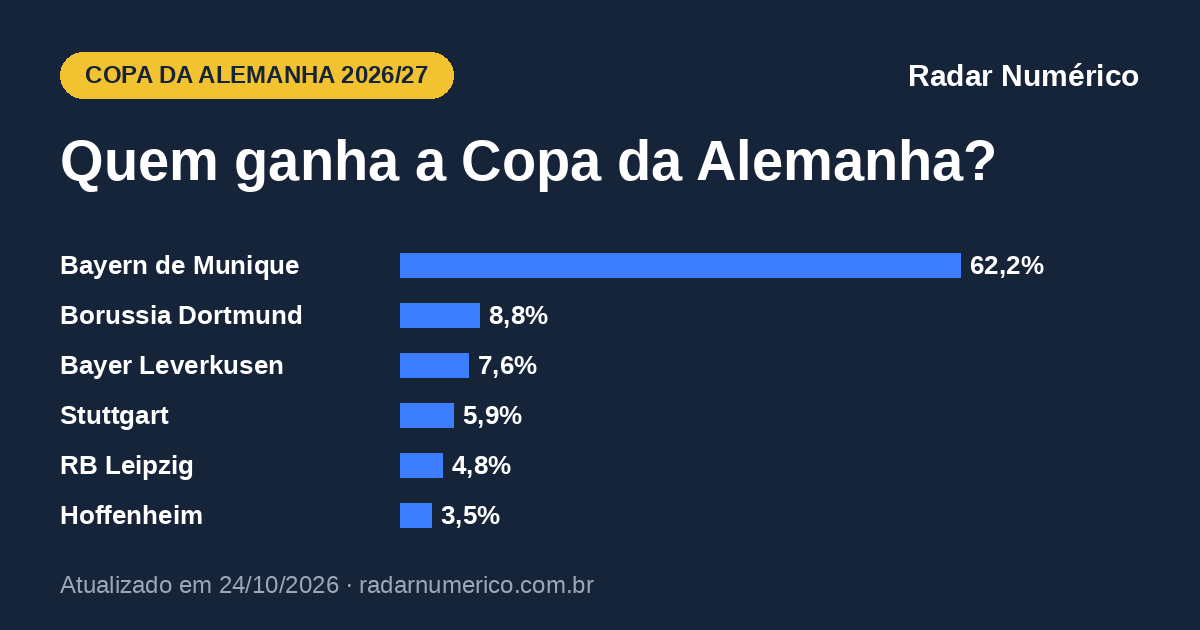
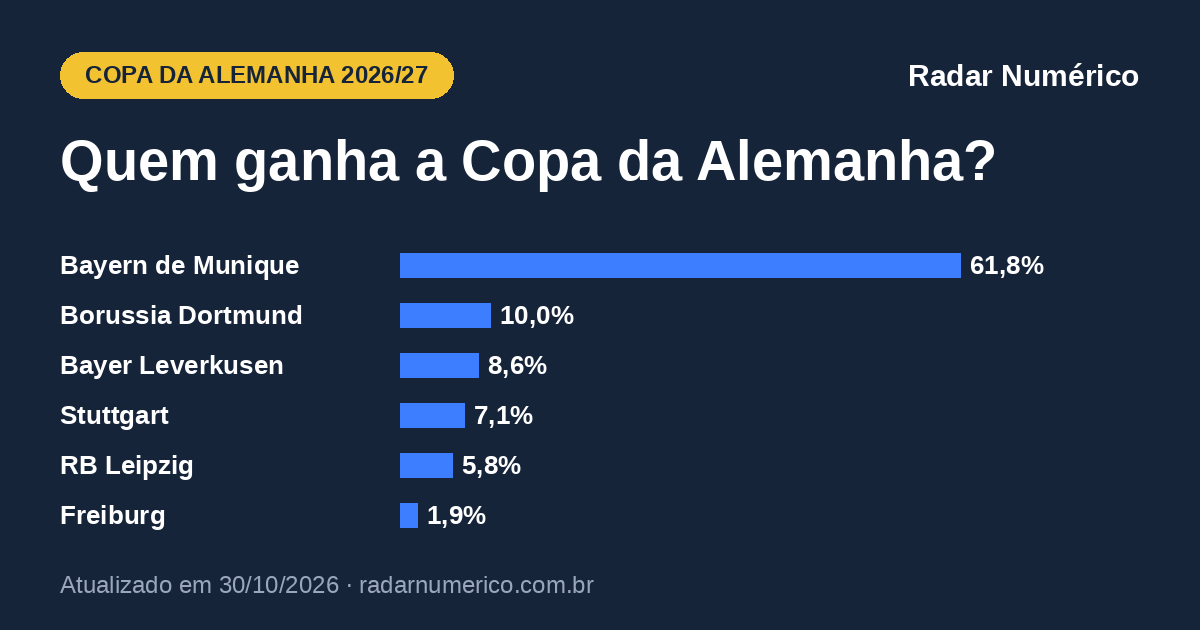
Copa da Alemanha: atualização semanal 2026-10-30

diff --git a/futebol/copa-da-alemanha/index.html b/futebol/copa-da-alemanha/index.html
@@ -13,11 +13,11 @@
 <meta property="og:title" content="Copa da Alemanha 2026/27: chances de título">
 <meta property="og:description" content="Probabilidades da Copa da Alemanha 2026/27: chance de cada time chegar às quartas, à semifinal, à final e de ser campeão.">
 <meta property="og:url" content="https://radarnumerico.com.br/futebol/copa-da-alemanha/">
-<meta property="og:image" content="https://radarnumerico.com.br/futebol/copa-da-alemanha/og.png?v=202610241222">
+<meta property="og:image" content="https://radarnumerico.com.br/futebol/copa-da-alemanha/og.png?v=202610301128">
 <meta property="og:image:width" content="1200">
 <meta property="og:image:height" content="630">
 <meta name="twitter:card" content="summary_large_image">
-<script type="application/ld+json">{"@context": "https://schema.org", "@graph": [{"@type": "WebPage", "@id": "https://radarnumerico.com.br/futebol/copa-da-alemanha/", "url": "https://radarnumerico.com.br/futebol/copa-da-alemanha/", "name": "Copa da Alemanha 2026/27: chances de título", "description": "Probabilidades da Copa da Alemanha 2026/27: chance de cada time chegar às quartas, à semifinal, à final e de ser campeão.", "inLanguage": "pt-BR", "dateModified": "2026-10-24T12:22:00-03:00", "isPartOf": {"@type": "WebSite", "name": "Radar Numérico", "url": "https://radarnumerico.com.br/"}, "about": {"@type": "Thing", "name": "Copa da Alemanha 2026/27"}}, {"@type": "BreadcrumbList", "itemListElement": [{"@type": "ListItem", "position": 1, "name": "Radar Numérico", "item": "https://radarnumerico.com.br/"}, {"@type": "ListItem", "position": 2, "name": "Copa da Alemanha 2026/27: probabilidades", "item": "https://radarnumerico.com.br/futebol/copa-da-alemanha/"}]}]}</script>
+<script type="application/ld+json">{"@context": "https://schema.org", "@graph": [{"@type": "WebPage", "@id": "https://radarnumerico.com.br/futebol/copa-da-alemanha/", "url": "https://radarnumerico.com.br/futebol/copa-da-alemanha/", "name": "Copa da Alemanha 2026/27: chances de título", "description": "Probabilidades da Copa da Alemanha 2026/27: chance de cada time chegar às quartas, à semifinal, à final e de ser campeão.", "inLanguage": "pt-BR", "dateModified": "2026-10-30T11:28:00-03:00", "isPartOf": {"@type": "WebSite", "name": "Radar Numérico", "url": "https://radarnumerico.com.br/"}, "about": {"@type": "Thing", "name": "Copa da Alemanha 2026/27"}}, {"@type": "BreadcrumbList", "itemListElement": [{"@type": "ListItem", "position": 1, "name": "Radar Numérico", "item": "https://radarnumerico.com.br/"}, {"@type": "ListItem", "position": 2, "name": "Copa da Alemanha 2026/27: probabilidades", "item": "https://radarnumerico.com.br/futebol/copa-da-alemanha/"}]}]}</script>
 <link rel="icon" type="image/png" href="/favicon.png">
 <link rel="apple-touch-icon" href="/apple-touch-icon.png">
 <link rel="preconnect" href="https://fonts.googleapis.com">
@@ -430,8 +430,8 @@ table.mzf td.bc{color:#fff}
 <header class="pg">
   <div class="kicker">Futebol · Alemanha</div>
   <h1>Copa da Alemanha 2026/27: chances de título</h1>
-  <div class="selo" id="selo"><span>Atualizado em <b>24/10/2026 às 12h22</b></span><span>fase atual: <b>16 avos</b></span><span>32 times vivos</span></div>
-  <p class="lede">O favorito ao título da Copa da Alemanha é o <b>Bayern de Munique</b>, com 62,2%, seguido por Borussia Dortmund (8,8%) e Bayer Leverkusen (7,6%). Calculamos, para os 32 times vivos, a chance de chegar a cada fase, simulando os jogos já marcados e o sorteio das fases seguintes 20 mil vezes. O campeão ganha vaga na Liga Europa.</p>
+  <div class="selo" id="selo"><span>Atualizado em <b>30/10/2026 às 11h28</b></span><span>fase atual: <b>Oitavas</b></span><span>16 times vivos</span></div>
+  <p class="lede">O favorito ao título da Copa da Alemanha é o <b>Bayern de Munique</b>, com 61,8%, seguido por Borussia Dortmund (10,0%) e Bayer Leverkusen (8,6%). Calculamos, para os 16 times vivos, a chance de chegar a cada fase, simulando os jogos já marcados e o sorteio das fases seguintes 20 mil vezes. O campeão ganha vaga na Liga Europa.</p>
 </header>
 
 <section class="g" id="s-trilha">
@@ -489,7 +489,7 @@ table.mzf td.bc{color:#fff}
 
 <div class="metod">
   <p class="marca">Radar Numérico</p>
-  <p id="rodape">Probabilidades da Copa da Alemanha 2026/27 atualizadas em 24/10/2026 às 12h22.</p>
+  <p id="rodape">Probabilidades da Copa da Alemanha 2026/27 atualizadas em 30/10/2026 às 11h28.</p>
   <p>Como calculamos: um algoritmo desenvolvido pelo economista Augusto Pellegrini estima a força de cada time a partir das cotações de mercado de todos os seus jogos recentes, em todas as competições. Simulamos a copa 20 mil vezes: os jogos já marcados e, depois, o sorteio de cada fase. Empate em jogo único vai à prorrogação e aos pênaltis. Fonte: Radar Numérico.</p>
 </div>
 </main>
@@ -498,7 +498,7 @@ table.mzf td.bc{color:#fff}
 <div id="tip" role="tooltip"></div>
 <div id="toast" role="status"></div>
 <script>
-const D = {"slug":"copa-da-alemanha","nome":"Copa da Alemanha","gerado_em":"2026-10-24T12:22","tams":[16,8,4,2,1],"rot":["Oitavas","Quartas","Semifinal","Final","Campeão"],"atual_rot":"16 avos","cai_antes":"Cai nos 16 avos","n_vivos":32,"times":{"Hoffenheim":{"id":"2820","fases":[0.7322,0.4576,0.2506,0.1141,0.0347],"campeao":0.0347,"forca":53.6,"cab":false},"Colônia":{"id":"2822","fases":[0.6815,0.3071,0.1164,0.0329,0.0056],"campeao":0.0056,"forca":44.9,"cab":false},"Mainz":{"id":"2824","fases":[0.6308,0.3321,0.1491,0.0554,0.012],"campeao":0.012,"forca":48.5,"cab":false},"Magdeburg":{"id":"2953","fases":[0.0177,0.0049,0.0013,0.0004,0.0001],"campeao":0.0001,"forca":35.9,"cab":false},"Paderborn":{"id":"2827","fases":[0.2336,0.0846,0.024,0.0046,0.0005],"campeao":0.0005,"forca":38.6,"cab":false},"Schalke 04":{"id":"2828","fases":[0.6807,0.2932,0.1074,0.029,0.0044],"campeao":0.0044,"forca":43.8,"cab":false},"Werder Bremen":{"id":"2831","fases":[0.1343,0.0606,0.0234,0.0065,0.0011],"campeao":0.0011,"forca":44.1,"cab":false},"Wolfsburg":{"id":"2832","fases":[0.313,0.1529,0.0616,0.0205,0.0032],"campeao":0.0032,"forca":45.9,"cab":false},"Elversberg":{"id":"2962","fases":[0.6304,0.2541,0.0839,0.0217,0.0027],"campeao":0.0027,"forca":42.1,"cab":false},"VfL Bochum":{"id":"2838","fases":[0.3693,0.1177,0.0289,0.0053,0.0004],"campeao":0.0004,"forca":37.0,"cab":false},"SV Darmstadt 98":{"id":"2840","fases":[0.3696,0.1457,0.0459,0.012,0.0017],"campeao":0.0017,"forca":41.7,"cab":false},"Sonnenhof Grossaspach":{"id":"1190","fases":[0.0961,0.0077,0.0006,0.0,0.0],"campeao":0.0,"forca":15.1,"cab":false},"SSV Jeddeloh":{"id":"3113","fases":[0.0193,0.0002,0.0,0.0,0.0],"campeao":0.0,"forca":-8.9,"cab":false},"Kaiserslautern":{"id":"2858","fases":[0.5357,0.1636,0.0399,0.0072,0.0011],"campeao":0.0011,"forca":37.3,"cab":false},"Karlsruher SC":{"id":"2860","fases":[0.2048,0.0549,0.0125,0.0018,0.0002],"campeao":0.0002,"forca":34.6,"cab":false},"RB Leipzig":{"id":"2861","fases":[0.84,0.5507,0.3152,0.1505,0.0476],"campeao":0.0476,"forca":55.0,"cab":false},"Nurnberg":{"id":"2867","fases":[0.0471,0.0106,0.0017,0.0003,0.0],"campeao":0.0,"forca":30.0,"cab":false},"Union Berlin":{"id":"2873","fases":[0.3185,0.1281,0.0408,0.0098,0.0014],"campeao":0.0014,"forca":42.3,"cab":false},"Stuttgart":{"id":"2876","fases":[0.7663,0.5184,0.3153,0.1653,0.059],"campeao":0.059,"forca":56.9,"cab":false},"Rot Weiss Essen":{"id":"1216","fases":[0.16,0.0371,0.0073,0.0008,0.0],"campeao":0.0,"forca":31.2,"cab":false},"Dynamo Dresden":{"id":"2889","fases":[0.3193,0.0668,0.0109,0.0013,0.0001],"campeao":0.0001,"forca":30.0,"cab":false},"Freiburg":{"id":"1227","fases":[0.6871,0.3673,0.1664,0.0595,0.0135],"campeao":0.0135,"forca":48.8,"cab":false},"Holstein Kiel":{"id":"2899","fases":[0.2677,0.0835,0.0221,0.0044,0.0006],"campeao":0.0006,"forca":37.2,"cab":false},"Augsburg":{"id":"2798","fases":[0.9039,0.4156,0.1572,0.0483,0.0087],"campeao":0.0087,"forca":44.9,"cab":false},"Bayer Leverkusen":{"id":"2801","fases":[0.9529,0.6533,0.4053,0.2124,0.0765],"campeao":0.0765,"forca":57.1,"cab":false},"Bayern de Munique":{"id":"2802","fases":[0.9823,0.8981,0.8061,0.7107,0.6215],"campeao":0.6215,"forca":74.6,"cab":false},"Borussia Dortmund":{"id":"2803","fases":[0.8657,0.616,0.4063,0.2246,0.0883],"campeao":0.0883,"forca":58.8,"cab":false},"Borussia M'gladbach":{"id":"2806","fases":[0.7952,0.3436,0.1207,0.0316,0.0049],"campeao":0.0049,"forca":43.6,"cab":false},"Eintracht Frankfurt":{"id":"2809","fases":[0.4924,0.2442,0.1002,0.0307,0.006],"campeao":0.006,"forca":47.1,"cab":false},"Hamburg":{"id":"2811","fases":[0.5077,0.2005,0.069,0.0171,0.0019],"campeao":0.0019,"forca":41.9,"cab":false},"Hannover 96":{"id":"2812","fases":[0.4643,0.0941,0.0152,0.0019,0.0001],"campeao":0.0001,"forca":30.0,"cab":false},"Hertha BSC":{"id":"2815","fases":[0.9807,0.3352,0.0944,0.0192,0.0022],"campeao":0.0022,"forca":39.1,"cab":false}},"ordem":["Bayern de Munique","Borussia Dortmund","Bayer Leverkusen","Stuttgart","RB Leipzig","Hoffenheim","Freiburg","Mainz","Augsburg","Eintracht Frankfurt","Colônia","Borussia M'gladbach","Schalke 04","Wolfsburg","Elversberg","Hertha BSC","Hamburg","SV Darmstadt 98","Union Berlin","Werder Bremen","Kaiserslautern","Holstein Kiel","Paderborn","VfL Bochum","Karlsruher SC","Magdeburg","Dynamo Dresden","Hannover 96","Rot Weiss Essen","Nurnberg","Sonnenhof Grossaspach","SSV Jeddeloh"],"confrontos":[{"m":"Sonnenhof Grossaspach","v":"Augsburg","pm":0.0961,"vm":0.08,"e":0.1711,"vv":0.7488},{"m":"Rot Weiss Essen","v":"RB Leipzig","pm":0.16,"vm":0.1244,"e":0.2023,"vv":0.6733},{"m":"VfL Bochum","v":"Mainz","pm":0.3693,"vm":0.2738,"e":0.2519,"vv":0.4742},{"m":"Hamburg","v":"Eintracht Frankfurt","pm":0.5077,"vm":0.3758,"e":0.259,"vv":0.3652},{"m":"Elversberg","v":"SV Darmstadt 98","pm":0.6304,"vm":0.474,"e":0.252,"vv":0.274},{"m":"Borussia M'gladbach","v":"Karlsruher SC","pm":0.7952,"vm":0.6179,"e":0.2207,"vv":0.1613},{"m":"Colônia","v":"Union Berlin","pm":0.6815,"vm":0.5126,"e":0.246,"vv":0.2414},{"m":"Borussia Dortmund","v":"Werder Bremen","pm":0.8657,"vm":0.7001,"e":0.1921,"vv":0.1078},{"m":"Freiburg","v":"Wolfsburg","pm":0.6871,"vm":0.5186,"e":0.2449,"vv":0.2366},{"m":"Paderborn","v":"Stuttgart","pm":0.2336,"vm":0.1815,"e":0.2288,"vv":0.5897},{"m":"SSV Jeddeloh","v":"Hertha BSC","pm":0.0193,"vm":0.0176,"e":0.0877,"vv":0.8947},{"m":"Dynamo Dresden","v":"Schalke 04","pm":0.3193,"vm":0.2402,"e":0.2457,"vv":0.5141},{"m":"Bayern de Munique","v":"Magdeburg","pm":0.9823,"vm":0.9031,"e":0.0818,"vv":0.0151},{"m":"Holstein Kiel","v":"Hoffenheim","pm":0.2677,"vm":0.2051,"e":0.2366,"vv":0.5583},{"m":"Bayer Leverkusen","v":"Nurnberg","pm":0.9529,"vm":0.8314,"e":0.1282,"vv":0.0404},{"m":"Hannover 96","v":"Kaiserslautern","pm":0.4643,"vm":0.3408,"e":0.2584,"vv":0.4008}],"finais":[{"a":"Bayern de Munique","b":"Borussia Dortmund","p":0.1244,"pa":0.8042},{"a":"Bayer Leverkusen","b":"Bayern de Munique","p":0.1179,"pa":0.1641},{"a":"Bayern de Munique","b":"Stuttgart","p":0.0898,"pa":0.8392},{"a":"Bayern de Munique","b":"RB Leipzig","p":0.0818,"pa":0.8741},{"a":"Bayern de Munique","b":"Hoffenheim","p":0.0628,"pa":0.8702},{"a":"Freiburg","b":"Bayern de Munique","p":0.0324,"pa":0.0787}],"outros":0.0,"matriz":{"tipo":"sorteio","linhas":[["Bayern de Munique",0.7107],["Borussia Dortmund",0.2246],["Bayer Leverkusen",0.2124],["Stuttgart",0.1653],["RB Leipzig",0.1505]],"colunas":[["Borussia Dortmund",0.2246],["Bayer Leverkusen",0.2124],["Stuttgart",0.1653],["RB Leipzig",0.1505],["Hoffenheim",0.1141]],"cel":[[0.1244,0.1179,0.0898,0.0818,0.0628],[null,0.0194,0.0158,0.0148,0.0121],[null,null,0.0154,0.0135,0.01],[null,null,null,0.0103,0.0071],[null,null,null,null,0.0054]]},"chave":{"fases":["16 avos","Oitavas","Quartas","Semifinal","Final"],"jogos":[["Sonnenhof Grossaspach","Augsburg"],["Rot Weiss Essen","RB Leipzig"],["VfL Bochum","Mainz"],["Hamburg","Eintracht Frankfurt"],["Elversberg","SV Darmstadt 98"],["Borussia M'gladbach","Karlsruher SC"],["Colônia","Union Berlin"],["Borussia Dortmund","Werder Bremen"],["Freiburg","Wolfsburg"],["Paderborn","Stuttgart"],["SSV Jeddeloh","Hertha BSC"],["Dynamo Dresden","Schalke 04"],["Bayern de Munique","Magdeburg"],["Holstein Kiel","Hoffenheim"],["Bayer Leverkusen","Nurnberg"],["Hannover 96","Kaiserslautern"]],"atual":true,"p":{"vagas":[[[[["Augsburg",0.9035],["Sonnenhof Grossaspach",0.0965]],[["RB Leipzig",0.8441],["Rot Weiss Essen",0.1559]]],[[["Mainz",0.634],["VfL Bochum",0.366]],[["Hamburg",0.5072],["Eintracht Frankfurt",0.4928]]],[[["Elversberg",0.6337],["SV Darmstadt 98",0.3663]],[["Borussia M'gladbach",0.793],["Karlsruher SC",0.207]]],[[["Colônia",0.6798],["Union Berlin",0.3202]],[["Borussia Dortmund",0.8666],["Werder Bremen",0.1334]]],[[["Freiburg",0.6867],["Wolfsburg",0.3133]],[["Stuttgart",0.7646],["Paderborn",0.2354]]],[[["Hertha BSC",0.9807],["SSV Jeddeloh",0.0193]],[["Schalke 04",0.6816],["Dynamo Dresden",0.3184]]],[[["Bayern de Munique",0.9835],["Magdeburg",0.0165]],[["Hoffenheim",0.7313],["Holstein Kiel",0.2687]]],[[["Bayer Leverkusen",0.9536],["Nurnberg",0.0464]],[["Kaiserslautern",0.5405],["Hannover 96",0.4595]]]],[[[["RB Leipzig",0.6192],["Augsburg",0.3307],["Rot Weiss Essen",0.045],["Sonnenhof Grossaspach",0.0052]],[["Mainz",0.3715],["Eintracht Frankfurt",0.2742],["Hamburg",0.2278],["VfL Bochum",0.1265]]],[[["Borussia M'gladbach",0.4236],["Elversberg",0.3219],["SV Darmstadt 98",0.1831],["Karlsruher SC",0.0714]],[["Borussia Dortmund",0.6782],["Colônia",0.1822],["Union Berlin",0.0728],["Werder Bremen",0.0667]]],[[["Stuttgart",0.5245],["Freiburg",0.2883],["Wolfsburg",0.1144],["Paderborn",0.0728]],[["Hertha BSC",0.483],["Schalke 04",0.4136],["Dynamo Dresden",0.1031],["SSV Jeddeloh",0.0003]]],[[["Bayern de Munique",0.8763],["Hoffenheim",0.1081],["Holstein Kiel",0.0114],["Magdeburg",0.0042]],[["Bayer Leverkusen",0.8406],["Kaiserslautern",0.0931],["Hannover 96",0.047],["Nurnberg",0.0193]]]],[[[["RB Leipzig",0.4321],["Mainz",0.1697],["Augsburg",0.1632],["Eintracht Frankfurt",0.1175],["Hamburg",0.0751],["VfL Bochum",0.0315],["Rot Weiss Essen",0.0105],["Sonnenhof Grossaspach",0.0004]],[["Borussia Dortmund",0.5488],["Borussia M'gladbach",0.1267],["Colônia",0.1018],["Elversberg",0.0886],["SV Darmstadt 98",0.0493],["Union Berlin",0.0366],["Werder Bremen",0.0361],["Karlsruher SC",0.0121]]],[[["Stuttgart",0.4236],["Freiburg",0.1949],["Schalke 04",0.1389],["Hertha BSC",0.1237],["Wolfsburg",0.0708],["Paderborn",0.034],["Dynamo Dresden",0.0141],["SSV Jeddeloh",0.0]],[["Bayern de Munique",0.7413],["Bayer Leverkusen",0.1947],["Hoffenheim",0.053],["Kaiserslautern",0.0055],["Holstein Kiel",0.0024],["Hannover 96",0.0016],["Magdeburg",0.0008],["Nurnberg",0.0006]]]],[[[["Borussia Dortmund",0.3741],["RB Leipzig",0.2436],["Mainz",0.0741],["Augsburg",0.0602],["Eintracht Frankfurt",0.0482],["Borussia M'gladbach",0.048],["Colônia",0.0412],["Elversberg",0.0311],["Hamburg",0.0237],["SV Darmstadt 98",0.0169],["Werder Bremen",0.014],["Union Berlin",0.013],["VfL Bochum",0.0075],["Karlsruher SC",0.0027],["Rot Weiss Essen",0.0017],["Sonnenhof Grossaspach",0.0]],[["Bayern de Munique",0.6579],["Bayer Leverkusen",0.1259],["Stuttgart",0.1126],["Freiburg",0.0315],["Hoffenheim",0.0307],["Schalke 04",0.0159],["Hertha BSC",0.0101],["Wolfsburg",0.0094],["Paderborn",0.0027],["Kaiserslautern",0.0015],["Holstein Kiel",0.0007],["Dynamo Dresden",0.0006],["Hannover 96",0.0003],["Magdeburg",0.0002],["Nurnberg",0.0001],["SSV Jeddeloh",0.0]]]]],"passa":[[0.0965,0.9035],[0.1559,0.8441],[0.366,0.634],[0.5072,0.4928],[0.6337,0.3663],[0.793,0.207],[0.6798,0.3202],[0.8666,0.1334],[0.6867,0.3133],[0.2354,0.7646],[0.0193,0.9807],[0.3184,0.6816],[0.9835,0.0165],[0.2687,0.7313],[0.9536,0.0464],[0.4595,0.5405]],"campeao":[["Bayern de Munique",0.5738],["Borussia Dortmund",0.1225],["Bayer Leverkusen",0.075],["Stuttgart",0.0666],["RB Leipzig",0.0656],["Hoffenheim",0.016],["Mainz",0.0135],["Freiburg",0.0133],["Augsburg",0.0086],["Eintracht Frankfurt",0.008],["Borussia M'gladbach",0.0063],["Colônia",0.0059],["Schalke 04",0.0051],["Elversberg",0.0037],["Wolfsburg",0.0034],["Hamburg",0.0028],["Hertha BSC",0.0024],["SV Darmstadt 98",0.002],["Werder Bremen",0.0019],["Union Berlin",0.0016],["Paderborn",0.0006],["VfL Bochum",0.0006],["Kaiserslautern",0.0003],["Karlsruher SC",0.0002],["Holstein Kiel",0.0001],["Rot Weiss Essen",0.0001],["Dynamo Dresden",0.0001],["Magdeburg",0.0],["Hannover 96",0.0],["Nurnberg",0.0],["Sonnenhof Grossaspach",0.0],["SSV Jeddeloh",0.0]]},"fixa":false},"SIGLA":{"Hoffenheim":"HOF","Colônia":"COL","Mainz":"MAI","Magdeburg":"MAG","Paderborn":"PAD","Schalke 04":"SCH","Werder Bremen":"WER","Wolfsburg":"WOL","Elversberg":"ELV","VfL Bochum":"VFL","SV Darmstadt 98":"SVD","Sonnenhof Grossaspach":"SON","SSV Jeddeloh":"SSV","Kaiserslautern":"KAI","Karlsruher SC":"KAR","RB Leipzig":"RBL","Nurnberg":"NUR","Union Berlin":"UNI","Stuttgart":"VFB","Rot Weiss Essen":"ROT","Dynamo Dresden":"DYN","Freiburg":"FRE","Holstein Kiel":"HOL","Augsburg":"AUG","Bayer Leverkusen":"BAY","Bayern de Munique":"BAY","Borussia Dortmund":"BVB","Borussia M'gladbach":"BOR","Eintracht Frankfurt":"EIN","Hamburg":"HAM","Hannover 96":"HAN","Hertha BSC":"HER"},"SLUG":{"Hoffenheim":"hoffenheim","Colônia":"colonia","Mainz":"mainz","Magdeburg":"magdeburg","Paderborn":"sc-paderborn-07","Schalke 04":"schalke-04","Werder Bremen":"werder-bremen","Wolfsburg":"wolfsburg","Elversberg":"sv-elversberg","VfL Bochum":"vfl-bochum","SV Darmstadt 98":"sv-darmstadt-98","Sonnenhof Grossaspach":"sonnenhof-grossaspach","SSV Jeddeloh":"ssv-jeddeloh","Kaiserslautern":"kaiserslautern","Karlsruher SC":"karlsruher-sc","RB Leipzig":"rb-leipzig","Nurnberg":"nurnberg","Union Berlin":"union-berlin","Stuttgart":"stuttgart","Rot Weiss Essen":"rot-weiss-essen","Dynamo Dresden":"dynamo-dresden","Freiburg":"freiburg","Holstein Kiel":"holstein-kiel","Augsburg":"augsburg","Bayer Leverkusen":"bayer-leverkusen","Bayern de Munique":"bayern-de-munique","Borussia Dortmund":"borussia-dortmund","Borussia M'gladbach":"borussia-monchengladbach","Eintracht Frankfurt":"eintracht-frankfurt","Hamburg":"hamburg","Hannover 96":"hannover-96","Hertha BSC":"hertha-bsc"},"CORES":{"Hoffenheim":["#3EA6DD","#FFFFFF"],"Colônia":["#0055A4","#FFFFFF"],"Mainz":["#C8102E","#FFFFFF"],"Magdeburg":["#16243A","#FFFFFF"],"Paderborn":["#F2C230","#FFFFFF"],"Schalke 04":["#C8102E","#FFFFFF"],"Werder Bremen":["#16243A","#FFFFFF"],"Wolfsburg":["#F2C230","#FFFFFF"],"Elversberg":["#C8102E","#FFFFFF"],"VfL Bochum":["#0055A4","#FFFFFF"],"SV Darmstadt 98":["#E35205","#FFFFFF"],"Sonnenhof Grossaspach":["#6C1D45","#FFFFFF"],"SSV Jeddeloh":["#00843D","#FFFFFF"],"Kaiserslautern":["#F2C230","#FFFFFF"],"Karlsruher SC":["#C8102E","#FFFFFF"],"RB Leipzig":["#FFFFFF","#DD0741"],"Nurnberg":["#F2C230","#FFFFFF"],"Union Berlin":["#3EA6DD","#FFFFFF"],"Stuttgart":["#FFFFFF","#E32219"],"Rot Weiss Essen":["#111111","#FFFFFF"],"Dynamo Dresden":["#3EA6DD","#FFFFFF"],"Freiburg":["#0055A4","#FFFFFF"],"Holstein Kiel":["#5B2C83","#FFFFFF"],"Augsburg":["#0055A4","#FFFFFF"],"Bayer Leverkusen":["#C8102E","#FFFFFF"],"Bayern de Munique":["#DC052D","#FFFFFF"],"Borussia Dortmund":["#FDE100","#111111"],"Borussia M'gladbach":["#6C1D45","#FFFFFF"],"Eintracht Frankfurt":["#5B2C83","#FFFFFF"],"Hamburg":["#16243A","#FFFFFF"],"Hannover 96":["#111111","#FFFFFF"],"Hertha BSC":["#0055A4","#FFFFFF"]},"vaga":"Liga Europa","liga":"bundesliga","liga_nome":"Bundesliga","nota_fase":"Todas as fases em jogo único, com mando sorteado.","final":"Final em Berlim, no Estádio Olímpico."};
+const D = {"slug":"copa-da-alemanha","nome":"Copa da Alemanha","gerado_em":"2026-10-30T11:28","tams":[16,8,4,2,1],"rot":["Oitavas","Quartas","Semifinal","Final","Campeão"],"atual_rot":"Oitavas","cai_antes":"","n_vivos":16,"times":{"Colônia":{"id":"2822","fases":[1.0,0.4636,0.1741,0.0522,0.0077],"campeao":0.0077,"forca":44.6,"cab":false},"Dynamo Dresden":{"id":"2889","fases":[1.0,0.2725,0.0585,0.0093,0.001],"campeao":0.001,"forca":34.6,"cab":false},"Freiburg":{"id":"1227","fases":[1.0,0.5521,0.258,0.092,0.0192],"campeao":0.0192,"forca":49.1,"cab":false},"Holstein Kiel":{"id":"2899","fases":[1.0,0.2492,0.0485,0.0064,0.0005],"campeao":0.0005,"forca":33.2,"cab":false},"VfL Bochum":{"id":"2838","fases":[1.0,0.274,0.0597,0.0089,0.0004],"campeao":0.0004,"forca":34.6,"cab":false},"SV Darmstadt 98":{"id":"2840","fases":[1.0,0.3076,0.0727,0.0129,0.0011],"campeao":0.0011,"forca":36.2,"cab":false},"Kaiserslautern":{"id":"2858","fases":[1.0,0.3674,0.1045,0.0214,0.0022],"campeao":0.0022,"forca":39.8,"cab":false},"RB Leipzig":{"id":"2861","fases":[1.0,0.6618,0.3901,0.1849,0.0583],"campeao":0.0583,"forca":55.2,"cab":false},"Augsburg":{"id":"2798","fases":[1.0,0.4751,0.1828,0.0531,0.01],"campeao":0.01,"forca":45.0,"cab":false},"Bayer Leverkusen":{"id":"2801","fases":[1.0,0.7095,0.4482,0.2326,0.0862],"campeao":0.0862,"forca":58.0,"cab":false},"Bayern de Munique":{"id":"2802","fases":[1.0,0.9136,0.8183,0.7173,0.6182],"campeao":0.6182,"forca":74.5,"cab":false},"Borussia Dortmund":{"id":"2803","fases":[1.0,0.7261,0.4691,0.2602,0.1002],"campeao":0.1002,"forca":59.1,"cab":false},"Borussia M'gladbach":{"id":"2806","fases":[1.0,0.4353,0.1543,0.0412,0.0066],"campeao":0.0066,"forca":43.5,"cab":false},"Eintracht Frankfurt":{"id":"2809","fases":[1.0,0.505,0.214,0.0659,0.0132],"campeao":0.0132,"forca":46.8,"cab":false},"Stuttgart":{"id":"2876","fases":[1.0,0.6812,0.4141,0.2114,0.0712],"campeao":0.0712,"forca":56.7,"cab":false},"Hertha BSC":{"id":"2815","fases":[1.0,0.406,0.1331,0.0302,0.004],"campeao":0.004,"forca":41.7,"cab":false}},"ordem":["Bayern de Munique","Borussia Dortmund","Bayer Leverkusen","Stuttgart","RB Leipzig","Freiburg","Eintracht Frankfurt","Augsburg","Colônia","Borussia M'gladbach","Hertha BSC","Kaiserslautern","SV Darmstadt 98","Dynamo Dresden","Holstein Kiel","VfL Bochum"],"confrontos":[],"finais":[{"a":"Bayern de Munique","b":"Borussia Dortmund","p":0.1464,"pa":0.8033},{"a":"Bayer Leverkusen","b":"Bayern de Munique","p":0.126,"pa":0.1817},{"a":"Bayern de Munique","b":"Stuttgart","p":0.1188,"pa":0.8485},{"a":"Bayern de Munique","b":"RB Leipzig","p":0.1026,"pa":0.8528},{"a":"Freiburg","b":"Bayern de Munique","p":0.0505,"pa":0.0861},{"a":"Bayern de Munique","b":"Eintracht Frankfurt","p":0.0353,"pa":0.9377}],"outros":0.0,"matriz":{"tipo":"sorteio","linhas":[["Bayern de Munique",0.7173],["Borussia Dortmund",0.2602],["Bayer Leverkusen",0.2326],["Stuttgart",0.2114],["RB Leipzig",0.1849]],"colunas":[["Borussia Dortmund",0.2602],["Bayer Leverkusen",0.2326],["Stuttgart",0.2114],["RB Leipzig",0.1849],["Freiburg",0.092]],"cel":[[0.1464,0.126,0.1188,0.1026,0.0505],[null,0.0295,0.024,0.0203,0.009],[null,null,0.021,0.0198,0.0098],[null,null,null,0.0159,0.0076],[null,null,null,null,0.0068]]},"chave":{"fases":["Oitavas","Quartas","Semifinal","Final"],"jogos":[[null,null],[null,null],[null,null],[null,null],[null,null],[null,null],[null,null],[null,null]],"atual":true,"p":null,"fixa":false},"SIGLA":{"Colônia":"COL","Dynamo Dresden":"DYN","Freiburg":"FRE","Holstein Kiel":"HOL","VfL Bochum":"VFL","SV Darmstadt 98":"SVD","Kaiserslautern":"KAI","RB Leipzig":"RBL","Augsburg":"AUG","Bayer Leverkusen":"BAY","Bayern de Munique":"BAY","Borussia Dortmund":"BVB","Borussia M'gladbach":"BOR","Eintracht Frankfurt":"EIN","Stuttgart":"VFB","Hertha BSC":"HER"},"SLUG":{"Colônia":"colonia","Dynamo Dresden":"dynamo-dresden","Freiburg":"freiburg","Holstein Kiel":"holstein-kiel","VfL Bochum":"vfl-bochum","SV Darmstadt 98":"sv-darmstadt-98","Kaiserslautern":"kaiserslautern","RB Leipzig":"rb-leipzig","Augsburg":"augsburg","Bayer Leverkusen":"bayer-leverkusen","Bayern de Munique":"bayern-de-munique","Borussia Dortmund":"borussia-dortmund","Borussia M'gladbach":"borussia-monchengladbach","Eintracht Frankfurt":"eintracht-frankfurt","Stuttgart":"stuttgart","Hertha BSC":"hertha-bsc"},"CORES":{"Colônia":["#0055A4","#FFFFFF"],"Dynamo Dresden":["#3EA6DD","#FFFFFF"],"Freiburg":["#0055A4","#FFFFFF"],"Holstein Kiel":["#5B2C83","#FFFFFF"],"VfL Bochum":["#0055A4","#FFFFFF"],"SV Darmstadt 98":["#E35205","#FFFFFF"],"Kaiserslautern":["#F2C230","#FFFFFF"],"RB Leipzig":["#FFFFFF","#DD0741"],"Augsburg":["#0055A4","#FFFFFF"],"Bayer Leverkusen":["#C8102E","#FFFFFF"],"Bayern de Munique":["#DC052D","#FFFFFF"],"Borussia Dortmund":["#FDE100","#111111"],"Borussia M'gladbach":["#6C1D45","#FFFFFF"],"Eintracht Frankfurt":["#5B2C83","#FFFFFF"],"Stuttgart":["#FFFFFF","#E32219"],"Hertha BSC":["#0055A4","#FFFFFF"]},"vaga":"Liga Europa","liga":"bundesliga","liga_nome":"Bundesliga","nota_fase":"Todas as fases em jogo único, com mando sorteado.","final":"Final em Berlim, no Estádio Olímpico.","ultimo_jogo":{"data":"2026-10-28","hora":"16:45","m":"Bayern de Munique","v":"Magdeburg","gm":6,"gv":1,"rodada":"Round 2"}};
 const T = D.times, ORD = D.ordem;
 const $ = s => document.querySelector(s);
 const SLUG = D.SLUG, SIGLA = D.SIGLA, CORES = D.CORES, ESC_DIR = 'escudos/';
@@ -813,7 +813,12 @@ document.addEventListener('mousemove', ev => {
   }
   window.RN = {capturar, montar, compartilhar};
   document.querySelectorAll('section.g').forEach(sec => {
-    const fonte = document.createElement('p'); fonte.className = 'fonte'; fonte.textContent = 'Fonte: radarnumerico.com.br';
+    const fonte = document.createElement('p'); fonte.className = 'fonte';
+    const u = D.ultimo_jogo;  /* data, hora e último jogo em todo gráfico (24/10/2026) */
+    fonte.style.whiteSpace = 'pre-line';  /* 2ª linha: última partida computada (24/10/2026) */
+    const L = D.ultimos || [`${u.m} ${u.gm}×${u.gv} ${u.v}`];
+    const lista = L.length === 1 ? L[0] : L.slice(0, -1).join(', ') + ' e ' + L[L.length - 1];
+    fonte.textContent = `Fonte: radarnumerico.com.br\n${L.length === 1 ? 'Última partida computada' : 'Últimas partidas computadas'}: ${lista}, às ${u.hora} do dia ${dataBR(u.data)}`;
     sec.appendChild(fonte);  /* fonte em todo gráfico, para os prints (24/10/2026) */
     const row = document.createElement('div'); row.className = 'share';
     row.innerHTML = `<span>Compartilhar:</span><button type="button" class="wa">${icoWa}WhatsApp</button><button type="button" class="ig">${icoIg}Story do Instagram</button>`;
